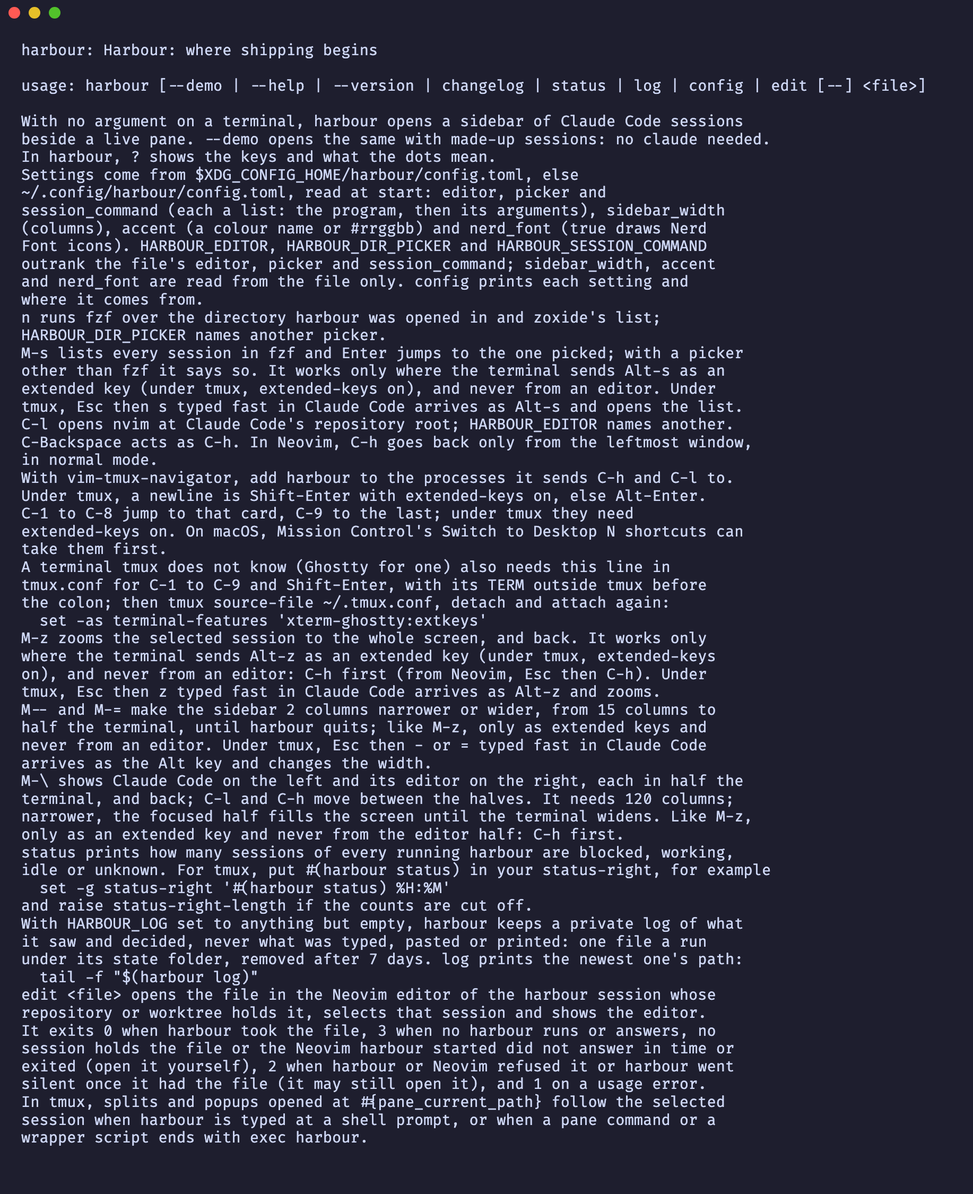
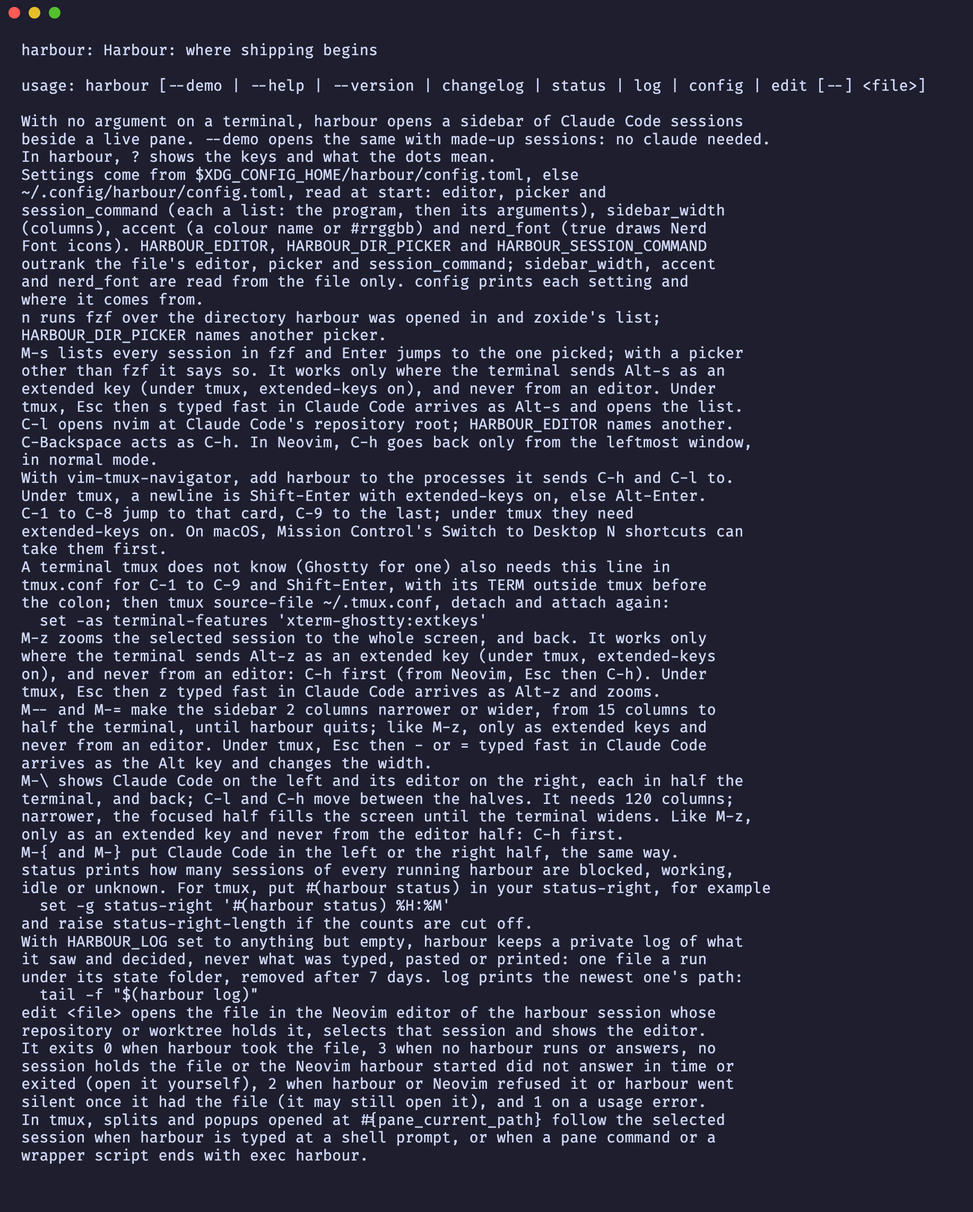
Help, usage, log names, fragment and screenshots for Alt-{ and Alt-}

Changed region(s): [[0.0, 0.0622, 0.777, 0.9644], [0.9013, 0.0622, 0.9324, 0.0933], [0.3419, 0.0311, 0.373, 0.0622]]

diff --git a/src/app/logging.rs b/src/app/logging.rs
@@ -6,7 +6,7 @@ use ratatui::layout::Rect;
 
 use super::find::is_find;
 use super::jump::position;
-use super::side::is_side;
+use super::side::{is_side, swaps};
 use super::split::widens;
 use super::zoom::is_zoom;
 use super::{App, Entry};
@@ -351,6 +351,7 @@ fn named(key: KeyEvent, resized: bool) -> String {
         _ if let Some(position) = position(key) => format!("C-{position}"),
         _ if is_zoom(key) => "M-z".to_string(),
         _ if is_side(key) => "M-\\".to_string(),
+        _ if let Some(right) = swaps(key) => if right { "M-}" } else { "M-{" }.to_string(),
         _ if is_find(key) => "M-s".to_string(),
         KeyCode::Char(c) if resized && widens(key).is_some() => format!("M-{c}"),
         KeyCode::Char(c) if BOUND.contains(&c) && KeyModifiers::SHIFT.contains(key.modifiers) => {

diff --git a/tests/app/logging.rs b/tests/app/logging.rs
@@ -118,6 +118,19 @@ fn the_side_by_side_key_is_logged_by_its_name() {
 }
 
 #[test]
+fn the_swap_keys_are_logged_by_their_names() {
+    let (app, lines) = logged(App::new(reading_agent()));
+    let mut screen = focused(app);
+
+    screen.key(KeyCode::Char('}'), KeyModifiers::ALT);
+    screen.key(KeyCode::Char('{'), KeyModifiers::ALT);
+
+    let lines = read(&lines);
+    assert_eq!(count(&lines, r#" key name="M-}""#), 1);
+    assert_eq!(count(&lines, r#" key name="M-{""#), 1);
+}
+
+#[test]
 fn the_find_key_is_logged_by_its_name_and_what_is_typed_into_the_list_is_not() {
     let picker = Picker::Command(vec![FINDER.into()]);
     let (app, lines) = logged(App::new(reading_agent()).with_picker(picker));

diff --git a/tests/cli.rs b/tests/cli.rs
@@ -388,6 +388,7 @@ M-\\ shows Claude Code on the left and its editor on the right, each in half the
 terminal, and back; C-l and C-h move between the halves. It needs 120 columns;
 narrower, the focused half fills the screen until the terminal widens. Like M-z,
 only as an extended key and never from the editor half: C-h first.
+M-{ and M-} put Claude Code in the left or the right half, the same way.
 status prints how many sessions of every running harbour are blocked, working,
 idle or unknown. For tmux, put #(harbour status) in your status-right, for example
   set -g status-right '#(harbour status) %H:%M'

diff --git a/src/main.rs b/src/main.rs
@@ -50,6 +50,7 @@ M-\\ shows Claude Code on the left and its editor on the right, each in half the
 terminal, and back; C-l and C-h move between the halves. It needs 120 columns;
 narrower, the focused half fills the screen until the terminal widens. Like M-z,
 only as an extended key and never from the editor half: C-h first.
+M-{ and M-} put Claude Code in the left or the right half, the same way.
 status prints how many sessions of every running harbour are blocked, working,
 idle or unknown. For tmux, put #(harbour status) in your status-right, for example
   set -g status-right '#(harbour status) %H:%M'

diff --git a/src/help.rs b/src/help.rs
@@ -6,7 +6,7 @@ pub const KEYS: &[(&str, &str)] = &[
     ("C-1..C-9", "focus or resume that card; C-9 the last"),
     ("M-z", "zoom the session to the whole screen, or back"),
     ("M--/M-=", "narrow / widen the sidebar by 2 columns"),
-    ("M-\\", "Claude Code beside its editor (120+ columns)"),
+    ("M-\\", "side by side (120+ columns); M-{/M-} swap"),
     ("M-s", "jump to a session by part of its name"),
     ("e", "show the next editor, one per directory"),
     ("x", "end it and its editors, or forget an ended one"),

diff --git a/src/app/side.rs b/src/app/side.rs
@@ -288,7 +288,7 @@ pub(super) fn is_side(key: KeyEvent) -> bool {
         && !key.state.contains(ESCAPED)
 }
 
-fn swaps(key: KeyEvent) -> Option<bool> {
+pub(super) fn swaps(key: KeyEvent) -> Option<bool> {
     if key.modifiers - KeyModifiers::SHIFT != KeyModifiers::ALT
         || key.kind != KeyEventKind::Press
         || key.state.contains(ESCAPED)

diff --git a/tests/app/help.rs b/tests/app/help.rs
@@ -59,7 +59,7 @@ fn question_mark_shows_the_side_by_side_key() {
 
     let shown = screen.draw();
     assert!(
-        shown.contains("M-\\        Claude Code beside its editor (120+ columns)"),
+        shown.contains("M-\\        side by side (120+ columns); M-{/M-} swap"),
         "{shown}"
     );
 }

diff --git a/AGENTS.md b/AGENTS.md
@@ -58,14 +58,14 @@ src/app/jump.rs               `jump`: Ctrl-1 to Ctrl-8 select the card at that p
 src/finder.rs                 the session finder's list, a pure function: one line per card, `<n>\t<dot>\t<title>\t<place>\t<age>`, `<n>` its position when the list opened (never shown or matched), `<age>` the word `stopped` or `exited` for a card that does not run (their dot is the idle one), right-aligned with the times, the title and place `text::clean`ed (up to 512 characters) and padded, never cut further, by display width to the widest of each, so fzf can match every word and scrolls to it; `chosen` reads the position back from the line fzf prints
 src/app/find.rs               Alt-s (or Alt-S, Caps Lock on), only in an extended form and never from an editor (a legacy `ESC s` or an editor's Alt-s goes on to the session): with a card, the picker's popup (` sessions `) runs fzf over that list, written into the pick's private directory, with `--delimiter=<TAB> --with-nth=2.. --nth=2,3 --tabstop=1 --no-sort --layout=reverse --bind=enter:accept --no-preview --header-lines=0` after the directory picker's options (and `--accept-nth=..` where fzf takes it), only when the picker's file name is `fzf` (else `Could not start the session finder: it needs fzf, not <program>`; a list it cannot write says `Could not list the sessions: <error>`); the list kept as who was where when it opened (a session by its id and remembered id, a stopped card by its remembered id), and a pick goes through `jump` as Ctrl-N does: a session that ended while the list was open as its exited card, a stopped card merged meanwhile as the session that now holds its id, a line without its number said to come from `FZF_DEFAULT_OPTS`; while it is open every key, paste and mouse event goes to fzf, as for the directory picker
 src/app/zoom.rs               zoom: Alt-z (or Alt-Z, Caps Lock on), only in an extended form and never from an editor (a legacy `ESC z` or an editor's Alt-z goes on to the session), from the sidebar or Claude Code on a running session shows its pane alone and focuses it (from the sidebar its Claude Code, even on a card that showed its editor), and again brings the sidebar back, clearing a failure message as it zooms; each frame drops it once the pane loses focus or the session ends, and Alt-\ side by side with no editor left turns into it; the zoomed border: the counts at the right, then the session's headline (`src/zoom.rs`) guaranteed its dot, up to 16 columns of title and the time, the names in the rest, what they leave back to the headline
-src/app/side.rs               side by side: Alt-\, under the same rule as Alt-z, from the sidebar or Claude Code on a running session hides the sidebar and shows its Claude Code in the left half and its editor (the one last shown, else one opened as C-l opens it) in the right, focusing Claude Code, and again brings the sidebar back; nothing under 120 columns or when the editor cannot open; C-l and C-h move the focus between the halves, a click focuses its half and a gesture stays with the half it began in, only the focused half draws a cursor; a jump (Ctrl-1 to Ctrl-9, a pick from the session finder, a stopped card that resumes) keeps the mode and the half its session last had focused, shows its Claude Code alone as Alt-z does when its editor cannot start, and keeps the mode under 120 columns; a jump to an exited session or a refused resume brings the sidebar back; narrower than 120 columns the focused half fills the screen until the terminal widens; each frame drops it once the pane loses focus or the session ends (an exited session's Claude Code then shows dimmed); the borders: the headline and `claude` over the left half, the editor's name and directory and the counts over the right, the focused half's names bold
+src/app/side.rs               side by side: Alt-\, under the same rule as Alt-z, from the sidebar or Claude Code on a running session hides the sidebar and shows its Claude Code in the left half and its editor (the one last shown, else one opened as C-l opens it) in the right, focusing Claude Code, and again brings the sidebar back; nothing under 120 columns or when the editor cannot open; C-l and C-h move the focus between the halves, a click focuses its half and a gesture stays with the half it began in, only the focused half draws a cursor; a jump (Ctrl-1 to Ctrl-9, a pick from the session finder, a stopped card that resumes) keeps the mode and the half its session last had focused, shows its Claude Code alone as Alt-z does when its editor cannot start, and keeps the mode under 120 columns; a jump to an exited session or a refused resume brings the sidebar back; narrower than 120 columns the focused half fills the screen until the terminal widens; each frame drops it once the pane loses focus or the session ends (an exited session's Claude Code then shows dimmed); the borders: the headline and `claude` over the left half, the editor's name and directory and the counts over the right, the focused half's names bold; Alt-} (and Alt-{ back), under the same rule, swaps the halves, the editor on the left and Claude Code on the right, the borders' headline on the left and counts on the right, mouse and focus following each program, kept across a jump; swapped, C-h and C-l keep their left and right: C-h from Claude Code focuses the editor, C-l from the editor Claude Code unless Neovim keeps it, C-h from the editor the sidebar, C-l from Claude Code goes to it
 src/app/remember.rs           what the app does with remembered sessions: recalls them once as stopped cards, at most 100 by position, from one listing of every projects folder (a card whose transcript is gone is left out, its file forgotten once it is 30 days old), says on line 2 and in the pane why one cannot resume (`directory gone`, `open elsewhere` while a live pid's registry file or another harbour's reservation names its id), resumes one with `<command> --resume <id>` in its directory after checking both again and reserving the id for as long as it runs, keeps each session's id, directory, title and position once its transcript exists (again when its file went missing, once more when it exits and at quit), merges a stopped card into the session that resumed its conversation, forgets on `x` (never a file a session open elsewhere owns), clears its `gone` and `open elsewhere` messages on a new selection, the next attempt or once the card can resume, and adds `Conversations come back stopped.` to the quit question
 src/app/usage.rs              `u`: a popup, 80 by 30 or the terminal when smaller, running `<claude> -p --no-session-persistence --setting-sources user /usage` (the session command's program when its file name is `claude`, its arguments dropped, else a refusal on the message line) always in harbour's private (0700) `usage/` beside `status/` under the state folder, made on demand and closed again when found open, never a session's folder, since `-p` skips the trust question (no state folder, or one it cannot make private, refuses on the message line), on a 200-row PTY so it shows the start of the report; `loading…` while nothing is printed, the screen as soon as anything prints, and `printed nothing` or `exit <code>` in its title only once its process has exited and its output is read to its end, or half a second after the exit when something it started keeps the terminal open; the PTY keeps its width once something printed, so a narrower popup shows the left part and widening shows it all again; only `u` or `U` with no modifier but Shift opens it; every key, paste and mouse event goes to it while open, Esc and `q` or `Q` close it, end its process and log `usage closed`; never a card, never remembered
 src/app/split.rs              how the sidebar and the pane share the terminal: two columns, from 60 columns, the sidebar a third or the configured width cut to half, the pane the rest; below that one side at a time, the pane while it has focus, else the sidebar; zoomed or side by side, the pane alone; Alt-minus and Alt-equals, with or without Shift, only in an extended form and never from an editor, make the sidebar 2 columns narrower or wider, from 15 columns to half, nothing under 60 columns or while zoomed, the width kept in place of the configured one until quit
 src/handoff.rs                `harbour edit <file>` and its listener: the file made absolute (its folder resolved when the file does not exist yet, a dangling symlink followed to where it points, 4096 bytes at most), every harbour asked over a socket in a private (0700) `$XDG_STATE_HOME/harbour/edit/`, else `~/.local/state/harbour/edit/`, which of its sessions holds it, how deep its root lies, whether it is selected and when it was last used, and the first by that order told to open it; the listener binds `<pid>-<n>.sock` (0600), removes it when dropped, binds again within 5 s when it is gone, removes the sockets no process listens on, and, on a thread of its own that sleeps in `poll` until a connection, its check or harbour's exit wakes it, accepts, checks the peer and reads each request on a thread of its own (at most 16 in flight, the rest closed at once), keeping only a request from its own user that arrives within 100 ms and has not expired; it resolves the path again itself, answers `none` or a refusal when it does not resolve, and hands the app the rest over a channel with a deadline of its expiry, 5 s at most
 src/memory.rs                 the remembered sessions on disk: one `<sessionId>.json` per conversation under `$XDG_STATE_HOME/harbour/sessions/<configuration>/`, else `~/.local/state/harbour/sessions/<configuration>/`, one folder per Claude Code configuration (a stable hash of its resolved `projects/` path, symlinks followed), so a harbour never shows, resumes or prunes another configuration's conversations (0700 folder, 0600 files, written through a staged file and a rename, a staged file older than a minute swept); the directory stored as text, or as its bytes when it is not UTF-8; no file names another, so none deletes another; read leniently: a regular file only, never through a symlink, at most 64 KiB, `version` 1, an id of Claude Code's shape (a lowercase 8-4-4-4-12 hex UUID, so `--resume <id>` never reads it as an option) matching its name, an absolute directory, anything else skipped and left on disk, a file from a newer version never overwritten or removed; `reserve`: a private `<id>.<unique>.lock` held with a non-blocking lock by every running session with a remembered id (taken when the id is first known, the new one taken before the old one is released when it changes, tried again at each read while held elsewhere) and kept only while that file is still at its path, retried once when held, dead ones swept
 src/follow.rs                 where harbour works, so tmux's `#{pane_current_path}` follows the selected session: the `root` of the editor for its last seen directory, or where harbour was opened with no session or when that directory is gone or cannot be entered; checked at a frame when the selection or the directory changed, else every half second, and moved to only when it differs by path or by device and inode (a directory replaced in place is entered again); `temporary`, the temporary directory made absolute at start
-src/editor.rs                 an editor beside a session's Claude Code pane: the program it runs and the directory it belongs to, started with harbour's `TMUX` and `TMUX_PANE`, so a tmux command it runs targets harbour's pane, `root` (the repository root `repo::root` finds, the card's own walk, never walked up from a directory that is gone); Neovim listens on a socket in a private (0700) temporary directory removed with the editor, under `/tmp` when the temporary directory would make the socket path too long for macOS (103 bytes), and without one when that directory cannot be made, and says through it whether it has unsaved changes (`changes`: saved, unsaved, or unknown when it cannot be asked; a modified buffer counts when its `buftype` is empty or `acwrite`, a file the user would lose, never a terminal, prompt, `nofile` or `nowrite` buffer), and whether C-h stays in it (`wants_ctrl_h`: anything but mode `n` or `nt` with `blocking` false in the leftmost window); a session's editors end with it
+src/editor.rs                 an editor beside a session's Claude Code pane: the program it runs and the directory it belongs to, started with harbour's `TMUX` and `TMUX_PANE`, so a tmux command it runs targets harbour's pane, `root` (the repository root `repo::root` finds, the card's own walk, never walked up from a directory that is gone); Neovim listens on a socket in a private (0700) temporary directory removed with the editor, under `/tmp` when the temporary directory would make the socket path too long for macOS (103 bytes), and without one when that directory cannot be made, and says through it whether it has unsaved changes (`changes`: saved, unsaved, or unknown when it cannot be asked; a modified buffer counts when its `buftype` is empty or `acwrite`, a file the user would lose, never a terminal, prompt, `nofile` or `nowrite` buffer), and whether C-h stays in it (`wants_ctrl_h`: anything but mode `n` or `nt` with `blocking` false in the leftmost window), and C-l the same in the rightmost window (`wants_ctrl_l`, side by side swapped); a session's editors end with it
 src/nvim.rs                   `mode`, `eval` and `edit`: one msgpack-RPC `nvim_get_mode`, `nvim_eval` or `nvim_cmd` (`edit` with the path as bytes and `magic` off, so `%`, `#`, `|` and spaces stay in the name) over that socket, the connect, the write and the read all bounded by one deadline, the reply matched by its request id (a notification before it is skipped, at most 1 MiB read), `None` for no answer before the deadline
 src/zoom.rs                   `guaranteed`, the columns the headline keeps before the names fit (its dot, up to 16 columns of title, the time); `info`, a pure function: the zoomed border's headline, the dot, title, `repository · branch` and time, fitted to a room (the place cut first, then the title, the place alone without a title; the time kept while the title has a column; the dot alone at 3 columns, nothing under)
 src/tabs.rs                   `strip`, a pure function: the pane border's `claude | <editor>: <directory>`, fitted by display width (the directory loses its start first, then the editor's name; nothing shows once not one column of the editor's name fits); `claude` and `editor_named`, the side-by-side borders' names, each fitted alone; `iconed`, the same with `nerd_font` on: the glyph of `src/icons.rs` and a space before `claude`, and before the editor's name when it is Neovim, the directory going first, then both glyphs together, then the rest as `strip` fits it, so a glyph never shows without its whole name
@@ -115,7 +115,7 @@ scripts/homebrew-formula.sh   prints the tap formula for a released version
 scripts/formula-version.sh    the `tap` job's decision; never a version below the formula's
 scripts/stable-version.sh     the `stable-build` and `stable` jobs' decision, asked by both: the release the `stable` branch moves to, never below the version it holds
 scripts/sweep-report.sh       `[<first phase>]`: the sweep's data from `plans/`, as Markdown; counts and groups, judges nothing
-scripts/screenshots.sh        renders docs/details.png from `harbour --demo` and docs/help.png from `harbour --help`, plus one `shoot` per extra view (keys, pane, question, quit, ended (the demo with its blocked session ended, a count gone from the title), editor, usage, narrow, zoom (the demo after M-z, with tmux's `extended-keys` on for that shot alone), sessions (the demo after M-s, the same way), side-by-side (the demo after M-\, `extended-keys` on too, the demo editor beside Claude Code), picker, accent (the interface without `--demo`, through a config file written into the scratch `HOME` and removed after it), icons (the same with `nerd_font = true` and an editor script named `nvim`, its session a script that writes a registry file and a transcript naming a pull request and two running subagents in a scratch repository on a branch, the border's and the card's glyphs shown); truecolor.py converts ANSI)
+scripts/screenshots.sh        renders docs/details.png from `harbour --demo` and docs/help.png from `harbour --help`, plus one `shoot` per extra view (keys, pane, question, quit, ended (the demo with its blocked session ended, a count gone from the title), editor, usage, narrow, zoom (the demo after M-z, with tmux's `extended-keys` on for that shot alone), sessions (the demo after M-s, the same way), side-by-side (the demo after M-\, `extended-keys` on too, the demo editor beside Claude Code), side-swapped (the same after M-}), picker, accent (the interface without `--demo`, through a config file written into the scratch `HOME` and removed after it), icons (the same with `nerd_font = true` and an editor script named `nvim`, its session a script that writes a registry file and a transcript naming a pull request and two running subagents in a scratch repository on a branch, the border's and the card's glyphs shown); truecolor.py converts ANSI)
 scripts/sweep-issue.sh        the `issue` job of `sweep.yml`: opens "Sweep due before phase N" with the report once the next phase is a multiple of 5, never twice
 docs/                         the screenshots `scripts/screenshots.sh` writes (see "Documentation rule")
 changes/                      one fragment per pull request that feeds the binary (`kind:` and the changelog bullets); add-only, see Releasing
@@ -129,7 +129,7 @@ tests/           outside-in: `tests/cli.rs` runs the real binary;
                  `tests/session/` (`keyboard.rs` what a program asked for in keys) and `tests/app/` run sessions in process, as `/bin/sh -c` scripts;
                  `tests/edit.rs` runs `harbour edit` against listeners of `tests/handoff.rs`'s kind, which a test answers itself; `tests/app/handoff.rs` hands the app requests and stands in a socket for Neovim; `tests/app/nearest.rs` covers which holder gets the file and what moves its last use; `tests/e2e/edit.rs` runs `harbour edit` against harbour, and `tests/e2e/neovim.rs` holds four smoke tests against a real clean Neovim; `tests/app/real_neovim.rs` runs that Neovim's TUI in a harbour session and checks `mode`, `eval`, `edit`, `changes`, `wants_ctrl_h` and `open` against it; `tests/idle.rs` (Linux only) counts the listener thread's wake-ups while idle;
                  `tests/app/jumping.rs` covers Ctrl-1 to Ctrl-9 in process, `tests/e2e/keys.rs` what tmux sends for them with extended keys on and off;
-                 `tests/app/zoom.rs` covers Alt-z in process, `tests/app/width_keys.rs` Alt-minus and Alt-equals, `tests/app/side.rs` Alt-\ in process, `tests/app/side_jump.rs` the jumps and `harbour edit` while side by side, `tests/app/side_states.rs` the rest of its states, `tests/app/side_border.rs` its borders, `tests/app/side_mouse.rs` its clicks and gestures, `tests/app/finding.rs` and `tests/app/finding_states.rs` the session finder of Alt-s in process (`HARBOUR_DIR_PICKER`'s place taken by `tests/fixtures/finder/fzf`, a script named `fzf` that prints its arguments and the list on stderr, then picks the first listed line holding what is typed, never a real fzf; `tests/fixtures/nth-finder/fzf` prints the line without its number unless given `--accept-nth=..`, `tests/fixtures/old-finder/fzf` refuses `--accept-nth` as an old fzf does), `tests/finder.rs` its lines, `tests/picker.rs` the message of a list that cannot be written, `tests/e2e/finding.rs` Alt-s through tmux, `tests/app/zoom_border.rs` the zoomed border, `tests/zoom.rs` the table of how its headline fits a room;
+                 `tests/app/zoom.rs` covers Alt-z in process, `tests/app/width_keys.rs` Alt-minus and Alt-equals, `tests/app/side.rs` Alt-\ in process, `tests/app/side_jump.rs` the jumps and `harbour edit` while side by side, `tests/app/side_states.rs` the rest of its states, `tests/app/side_border.rs` its borders, `tests/app/side_mouse.rs` its clicks and gestures, `tests/app/side_swap.rs` Alt-{ and Alt-}, `tests/app/finding.rs` and `tests/app/finding_states.rs` the session finder of Alt-s in process (`HARBOUR_DIR_PICKER`'s place taken by `tests/fixtures/finder/fzf`, a script named `fzf` that prints its arguments and the list on stderr, then picks the first listed line holding what is typed, never a real fzf; `tests/fixtures/nth-finder/fzf` prints the line without its number unless given `--accept-nth=..`, `tests/fixtures/old-finder/fzf` refuses `--accept-nth` as an old fzf does), `tests/finder.rs` its lines, `tests/picker.rs` the message of a list that cannot be written, `tests/e2e/finding.rs` Alt-s through tmux, `tests/app/zoom_border.rs` the zoomed border, `tests/zoom.rs` the table of how its headline fits a room;
                  `tests/app/moving.rs` hands the app a recording move, never the real one; `tests/e2e/moving.rs` reads `#{pane_current_path}` of a harbour started with `Server::exec`;
                  `tests/app/usage.rs` covers the usage popup of `u` (what reaches it, what it leaves behind, its program), `tests/app/usage_states.rs` what it shows (loading, nothing, an exit, its size, its width after a shrink and its private folder);
                  `tests/tabs.rs` is the table of how the pane border's names fit a width, with and without icons;

diff --git a/README.md b/README.md
@@ -47,7 +47,7 @@ harbour config      # the settings file's path and where each setting comes from
 | `C-1..C-9` | focus or resume that card; C-9 the last |
 | `M-z` | zoom the session to the whole screen, or back |
 | `M--/M-=` | narrow / widen the sidebar by 2 columns |
-| `M-\` | Claude Code beside its editor (120+ columns) |
+| `M-\` | side by side (120+ columns); M-{/M-} swap |
 | `M-s` | jump to a session by part of its name |
 | `e` | show the next editor, one per directory |
 | `x` | end it and its editors, or forget an ended one |

diff --git a/changes/phase-30-swap-halves.md b/changes/phase-30-swap-halves.md
@@ -1,0 +1,6 @@
+kind: feat
+
+- Side by side, Alt-} puts Claude Code in the right half and its editor in the left one, and
+  Alt-{ puts them back. C-h and C-l still move left and right, clicks and borders follow each
+  program to its half, and a jump keeps the order. Like Alt-\, it needs the extended keys and
+  never comes from the editor half.
